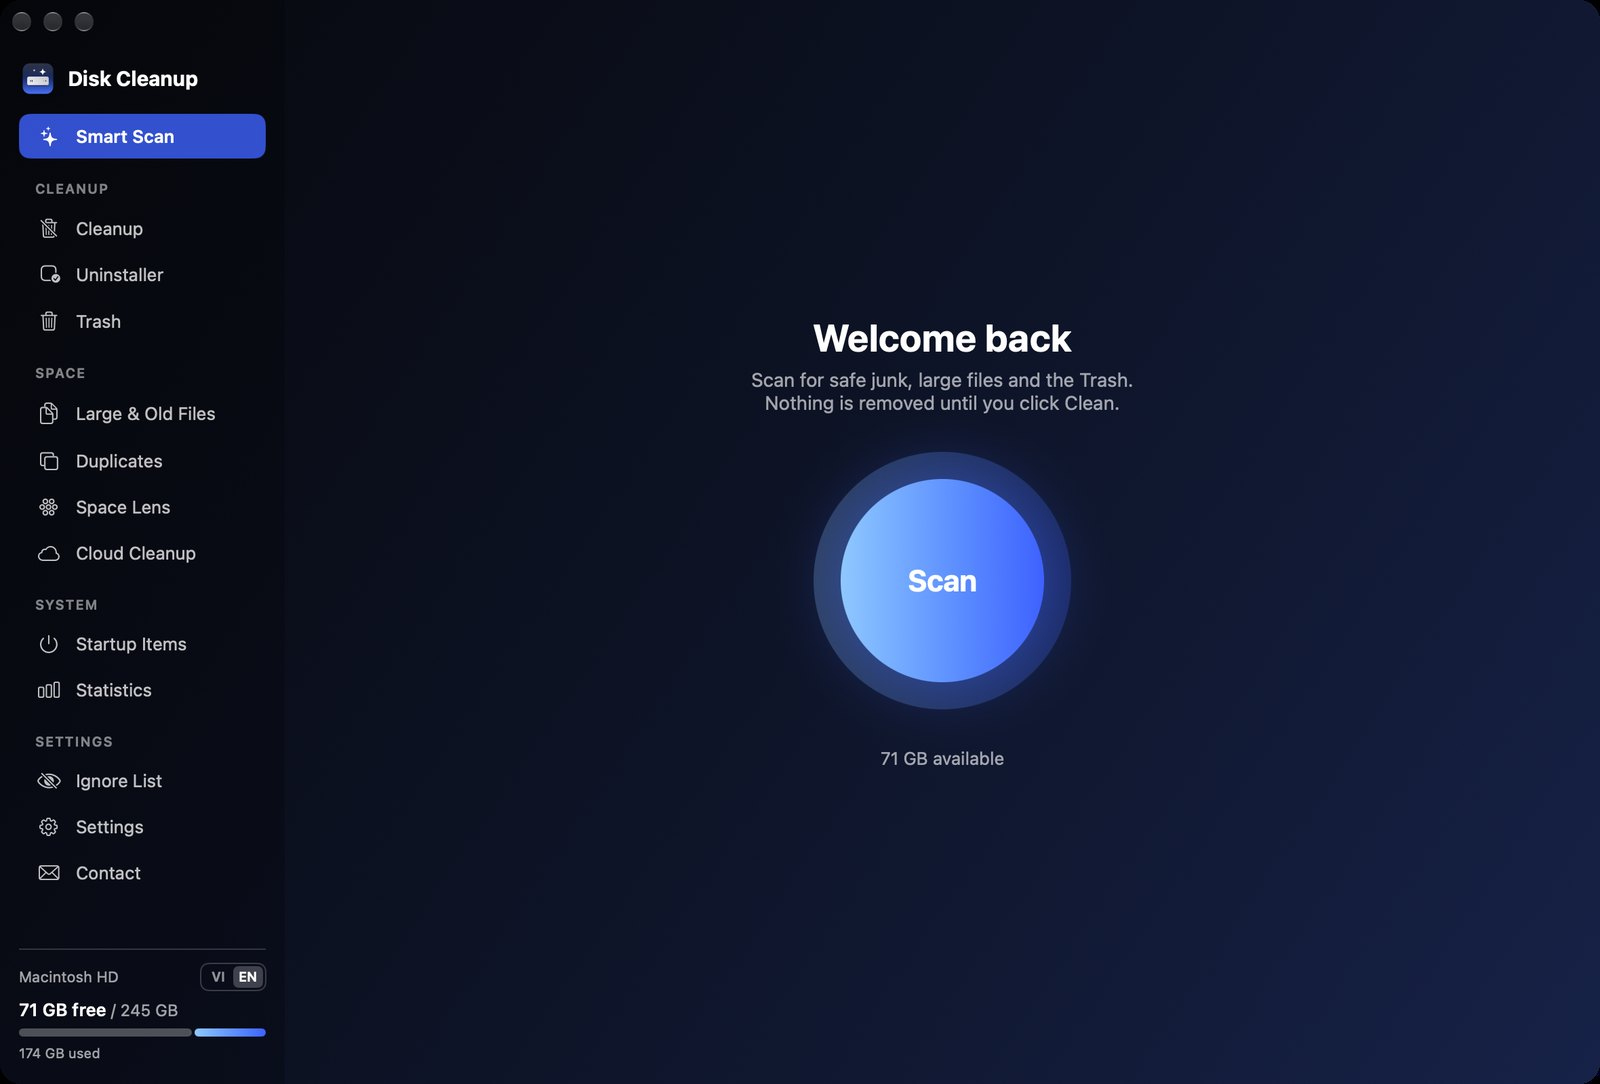
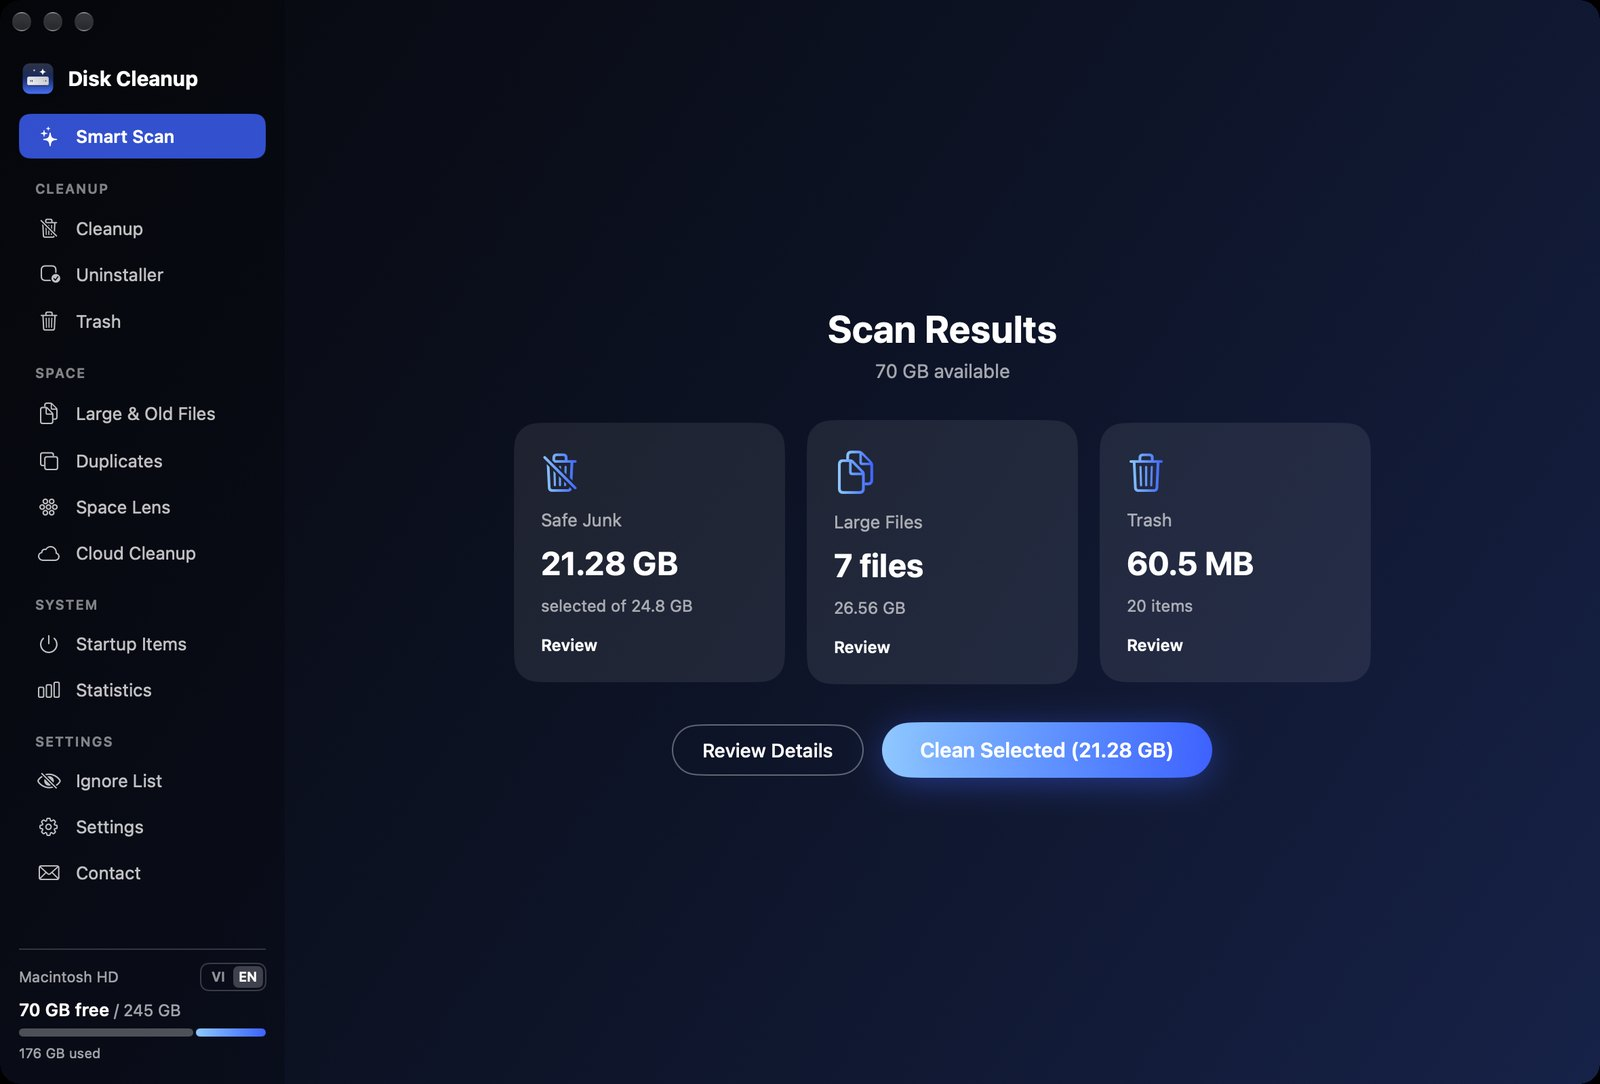
README: show real scan, review, duplicates, Space Lens, uninstaller and large-file screens
Adds a --demo launch flag that fills the UI with sample data for screenshots.

Claude-Session: https://claude.ai/code/session_01BvFWek8He1ziKUU1beLPqp

Changed region(s): [[0.4375, 0.274, 0.7812, 0.7306], [0.3438, 0.3958, 0.4375, 0.6089], [0.0, 0.9133, 0.125, 0.9437]]

diff --git a/Sources/main.swift b/Sources/main.swift
@@ -1617,7 +1617,7 @@ struct CleanupView: View {
         case .summary:
             VStack(spacing: 24) {
                 Text(fmt(vm.junkTotal)).font(.system(size: 54, weight: .bold)).foregroundColor(.white)
-                Text("of junk found. \(fmt(vm.junkSelected)) is safe and pre-selected.").foregroundColor(Theme.sub)
+                Text(t("of junk found. \(fmt(vm.junkSelected)) is safe and pre-selected.", "rác tìm thấy. \(fmt(vm.junkSelected)) an toàn, đã chọn sẵn.")).foregroundColor(Theme.sub)
                 HStack(spacing: 14) {
                     GhostButton(title: t("Review Details", "Xem chi tiết")) { vm.phase = .review }
                     PrimaryButton(title: t("Clean", "Dọn"), action: { vm.cleanJunk() }, disabled: vm.junkSelected == 0)
@@ -2578,10 +2578,13 @@ final class AppDelegate: NSObject, NSApplicationDelegate {
             try? px.representation(using: .png, properties: [:])?.write(to: URL(fileURLWithPath: a[i + 2])); exit(0)
         }
         NSApp.applicationIconImage = makeAppIcon(Theme.p)
-        // Developer helper for README screenshots: `--page <name> --window <W>x<H>` opens a page at a fixed size.
+        // Developer helper for README screenshots: `--demo` fills every page with sample data (no real files),
+        // `--page <name> --window <W>x<H>` opens a page at a fixed size.
+        if a.contains("--demo") { Demo.load(sharedVM) }
         if let i = a.firstIndex(of: "--page"), i + 1 < a.count,
            let pg = Page.allCases.first(where: { "\($0)" == a[i + 1] }) {
             sharedVM.page = pg
+            if pg == .cleanup && a.contains("--demo") { sharedVM.phase = .review }
         }
         if let i = a.firstIndex(of: "--window"), i + 1 < a.count {
             let wh = a[i + 1].split(separator: "x").compactMap { Double($0) }
@@ -3046,5 +3049,89 @@ struct InviteCard: View {
             if ok { f.ok = true; Invite.subscribed() }
             else { f.result = t("Could not sign up right now. Please try again later.", "Chưa đăng ký được lúc này. Bạn thử lại sau nhé.") }
         }
+    }
+}
+
+
+// MARK: - Sample data for screenshots (--demo). Nothing here touches real files.
+
+@MainActor enum Demo {
+    static let H = NSHomeDirectory()
+    static func u(_ p: String) -> URL { URL(fileURLWithPath: H + "/" + p) }
+    static func gb(_ x: Double) -> Int64 { Int64(x * 1_000_000_000) }
+    static func mb(_ x: Double) -> Int64 { Int64(x * 1_000_000) }
+    static func item(_ p: String, _ size: Int64, _ sel: Bool, running: Bool = false, days: Double = 0) -> CleanItem {
+        var c = CleanItem(url: u(p), size: size, selected: sel, running: running)
+        if days > 0 { c.date = Date().addingTimeInterval(-days * 86400) }
+        return c
+    }
+    static func load(_ vm: VM) {
+        vm.cats = [
+            Category(id: "usercache", titleEN: "User Cache Files", titleVI: "Bộ nhớ đệm người dùng", icon: "internaldrive",
+                     descEN: "Temporary files apps rebuild on their own", descVI: "File tạm, app tự tạo lại khi cần",
+                     items: [item("Library/Caches/com.google.Chrome", mb(2140), true),
+                             item("Library/Caches/com.spotify.client", mb(1380), true),
+                             item("Library/Caches/com.tinyspeck.slackmacgap", mb(612), false, running: true),
+                             item("Library/Caches/pip", mb(840), true),
+                             item("Library/Caches/Homebrew", mb(1210), true)], expanded: true),
+            Category(id: "appcache", titleEN: "App Caches", titleVI: "Bộ nhớ đệm trong app", icon: "square.stack.3d.up",
+                     descEN: "Web and graphics caches from Chrome, Slack, Notion, VS Code...", descVI: "Bộ nhớ đệm web, đồ hoạ của Chrome, Slack, Notion, VS Code...",
+                     items: [item("Library/Application Support/Code/CachedData", mb(930), true),
+                             item("Library/Application Support/Notion/Cache", mb(455), true),
+                             item("Library/Application Support/discord/Cache", mb(388), true),
+                             item("Library/Application Support/Google/Chrome/Default/GPUCache", mb(126), true)], expanded: true),
+            Category(id: "logs", titleEN: "Log Files", titleVI: "Nhật ký (log)", icon: "doc.text",
+                     descEN: "Error and activity logs, safe to remove", descVI: "Nhật ký lỗi và hoạt động, xoá an toàn",
+                     items: [item("Library/Logs/DiagnosticReports", mb(212), true), item("Library/Logs/JetBrains", mb(96), true)]),
+            Category(id: "dev", titleEN: "Developer & Wallpaper Junk", titleVI: "Công cụ và hình nền", icon: "hammer",
+                     descEN: "npm cache, downloaded aerial wallpapers", descVI: "Bộ nhớ đệm npm, hình nền động đã tải",
+                     items: [item(".npm/_cacache", mb(3420), true), item("Library/Application Support/com.apple.wallpaper/aerials", gb(6.8), true)]),
+            Category(id: "drafts", titleEN: "Project Drafts", titleVI: "Nháp trong thư mục dự án", icon: "tray.full",
+                     descEN: "_to_delete and _tmp folders in your project folders", descVI: "Thư mục _to_delete, _tmp trong thư mục dự án",
+                     items: [item("Projects/ai-video/_tmp", mb(2860), true), item("Projects/landing-page/_to_delete", mb(418), true)]),
+            Category(id: "downloads", titleEN: "Old Downloads (14+ days)", titleVI: "Downloads cũ hơn 14 ngày", icon: "arrow.down.circle",
+                     descEN: "Not selected by default. Review before removing", descVI: "Mặc định không tick, xem rồi chọn",
+                     items: [item("Downloads/Figma-125.4.dmg", mb(412), false, days: 41), item("Downloads/Zoom.pkg", mb(98), false, days: 63),
+                             item("Downloads/dataset-v2.zip", gb(2.4), false, days: 28)]),
+        ]
+        vm.phase = .summary
+        vm.large = [item("Movies/Screen Recording 2026-09-14.mov", gb(8.2), true, days: 42),
+                    item("Downloads/sdxl-base-1.0.safetensors", gb(6.9), true, days: 77),
+                    item("Documents/Footage/interview-raw.mp4", gb(4.1), false, days: 120),
+                    item("Downloads/ubuntu-24.04-desktop-arm64.iso", gb(3.2), true, days: 160),
+                    item("Pictures/Exports/product-shoot-4k.zip", gb(1.9), false, days: 33),
+                    item("Documents/Backups/site-backup-2026-06.tar.gz", gb(1.4), false, days: 118),
+                    item("Music/Logic/Podcast EP12.logicx", mb(860), false, days: 54)]
+        vm.largePhase = .review
+        var d1 = DupGroup(size: mb(46), items: [item("Projects/brand/hero-banner.psd", mb(46), false),
+                                                  item("Downloads/hero-banner.psd", mb(46), true),
+                                                  item("Desktop/hero-banner copy.psd", mb(46), true)])
+        d1.expanded = true
+        var d2 = DupGroup(size: mb(18), items: [item("Projects/ai-video/assets/intro.mp4", mb(18), false),
+                                                  item("Downloads/intro.mp4", mb(18), true)])
+        d2.items[0].refStrong = [H + "/Projects/ai-video/render.py"]
+        d2.expanded = true
+        var d3 = DupGroup(size: mb(12), items: [item("Pictures/IMG_2041.HEIC", mb(12), false), item("Desktop/IMG_2041.HEIC", mb(12), true)])
+        d3.items[1].refWeak = [H + "/Projects/blog/notes.md"]
+        d3.expanded = true
+        vm.dupes = [d1, d2, d3, DupGroup(size: mb(9), items: [item("Documents/contract-v3.pdf", mb(9), false), item("Downloads/contract-v3 (1).pdf", mb(9), true)])]
+        vm.lensPath = [URL(fileURLWithPath: H)]
+        vm.lensNodes = [("Library", 48.3), ("Documents", 31.2), ("Movies", 18.4), (".ollama", 12.6), ("Downloads", 9.1),
+                        ("Pictures", 7.4), ("Developer", 6.2), ("Projects", 5.8), ("Desktop", 2.3), ("Music", 1.1), (".npm", 0.9), (".cache", 0.6)]
+            .map { Node(url: u($0.0), size: gb($0.1), isDir: true) }
+        let z = AppEntry(url: URL(fileURLWithPath: "/Applications/Zoom.app"), name: "Zoom", bundleID: "us.zoom.xos", size: mb(412),
+                         lastUsed: Date().addingTimeInterval(-90 * 86400),
+                         related: [item("Library/Application Support/zoom.us", mb(186), true),
+                                   item("Library/Caches/us.zoom.xos", mb(64), true),
+                                   item("Library/Preferences/us.zoom.xos.plist", 24_000, true),
+                                   item("Library/Logs/zoom.us", mb(12), true),
+                                   item("Library/Saved Application State/us.zoom.xos.savedState", 410_000, true)])
+        vm.apps = [z,
+                   AppEntry(url: URL(fileURLWithPath: "/Applications/Figma.app"), name: "Figma", bundleID: "com.figma.Desktop", size: mb(520), lastUsed: Date()),
+                   AppEntry(url: URL(fileURLWithPath: "/Applications/Docker.app"), name: "Docker", bundleID: "com.docker.docker", size: gb(2.1), lastUsed: Date().addingTimeInterval(-200 * 86400)),
+                   AppEntry(url: URL(fileURLWithPath: "/Applications/Draw Things.app"), name: "Draw Things", bundleID: "com.liuliu.draw-things", size: mb(310), lastUsed: Date().addingTimeInterval(-3 * 86400)),
+                   AppEntry(url: URL(fileURLWithPath: "/Applications/Ollama.app"), name: "Ollama", bundleID: "com.electron.ollama", size: mb(380), lastUsed: Date().addingTimeInterval(-12 * 86400)),
+                   AppEntry(url: URL(fileURLWithPath: "/Applications/Spotify.app"), name: "Spotify", bundleID: "com.spotify.client", size: mb(290), lastUsed: Date())]
+        vm.selApp = z.id
     }
 }

diff --git a/README.md b/README.md
@@ -6,7 +6,39 @@ AI work leaves a lot behind: model files, drafts, exported images, duplicate ass
 
 > **Safety first.** Nothing is deleted permanently. Every action moves files to the Trash, and the Trash is only emptied when you click **Empty Trash** and confirm.
 
-![Disk Cleanup, Smart Scan](docs/smart.jpg)
+![Smart Scan results](docs/smart.jpg)
+
+## See it in action
+
+*Screenshots use sample data.*
+
+### 1. One scan, then you decide
+Smart Scan finds safe junk, large files and the Trash in one pass. Nothing is removed until you click **Clean**, and everything goes to the Trash first.
+
+### 2. Full control over every item
+Open **Review Details** to see each category, expand it, and tick or untick single items. Apps that are still running are flagged and left unticked.
+
+![Cleanup details](docs/cleanup.jpg)
+
+### 3. Duplicates without the risk
+Identical files are grouped (SHA-256, any file name). The best copy is marked **Keep**, and one click selects every extra copy. Before deleting, the app checks your project folders: a file still used by a script or skill is flagged in red and unticked for you.
+
+![Duplicates](docs/dupes.jpg)
+
+### 4. See where the space went
+Space Lens draws every folder as a bubble sized by real disk usage, with plain-language notes for common folders, including AI model folders like `.ollama`.
+
+![Space Lens](docs/lens.jpg)
+
+### 5. Uninstall apps completely
+Removing an app also finds its caches, preferences, logs and saved state. Leftovers from apps you already deleted and old installers have their own tabs.
+
+![Uninstaller](docs/apps.jpg)
+
+### 6. Large and old files, never pre-selected
+Files over 100 MB, sorted by size or by when you last opened them. You pick what goes.
+
+![Large files](docs/large.jpg)
 
 ## Features
 
@@ -23,16 +55,6 @@ AI work leaves a lot behind: model files, drafts, exported images, duplicate ass
 | **Statistics** | Space freed over time and a full activity log |
 | **Menu bar** | A hard-drive indicator with free space inside, plus disk, RAM and Trash at a glance |
 | **Contact** | Send feedback or bug reports from inside the app |
-
-| Space Lens (Golden Gate theme) | Settings (Burgundy theme) |
-|---|---|
-| ![Space Lens](docs/lens.jpg) | ![Settings](docs/settings.jpg) |
-| **Contact (Pride theme)** | **App icon follows the theme** |
-| ![Contact](docs/contact.jpg) | ![Icons](docs/icons.png) |
-
-Menu bar indicator at different free-space levels:
-
-![Menu bar](docs/menubar.png)
 
 Also: English and Vietnamese, four colour themes (Night Sky, Burgundy, Golden Gate, Pride) with a matching app icon, an Ignore list, and alerts when disk space or memory runs low.
 
